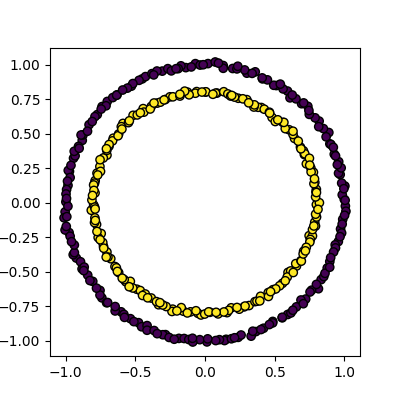
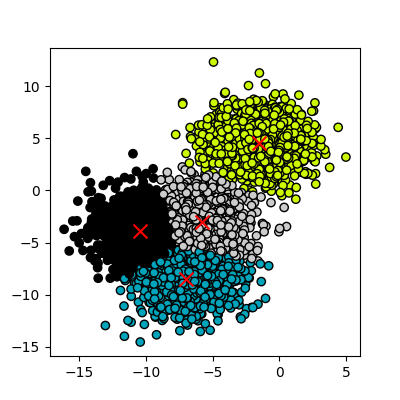
Corrected incorrect figures, changed plots in the silhouette score exercise

diff --git a/episodes/05-clustering.md b/episodes/05-clustering.md
@@ -31,7 +31,9 @@ Sometimes we do not have the luxury of using labelled data. This could be for a 
 - It is too time-consuming to (manually) label more data
 - We have data, but no idea what correlations might exist that we could model!
 
-In this case we need to use unsupervised learning. As the name suggests, this time we do not "supervise" the ML algorithm by providing it labels, but instead we let it try to find its own patterns in the data and report back on any correlations that it might find. You can think of unsupervised learning as a way to discover labels from the data itself.
+In this case we need to use unsupervised learning.
+As the name suggests, this time we do not "supervise" the ML algorithm by providing it labels, but instead we let it try to find its own patterns in the data and report back on any correlations that it might find.
+You can think of unsupervised learning as a way to discover labels from the data itself.
 
 ## Clustering
 
@@ -48,8 +50,7 @@ Clustering analysis does not usually require any training and is therefore known
 
 The k-means clustering algorithm is a simple clustering algorithm that tries to identify the centre of each cluster.
 It does this by searching for a point which minimises the distance between the centre and all the points in the cluster.
-The algorithm needs to be told how many k clusters to look for, but a common technique is to try different numbers of clusters and combine
-it with other tests to decide on the best combination.
+The algorithm needs to be told how many k clusters to look for, but a common technique is to try different numbers of clusters and combine it with other tests to decide on the best combination.
 
 :::::::::::::::::::::::::::::::::::::::::  callout
 
@@ -68,13 +69,18 @@ To perform a k-means clustering with Scikit-Learn we first need to import the sk
 import sklearn.cluster as skl_cluster
 ```
 
-For this example, we're going to use Scikit-Learn's built-in 'random data blob generator' instead of using an external dataset. Therefore we'll need the `sklearn.datasets` module.
+For this example, we're going to use Scikit-Learn's built-in 'random data blob generator' instead of using an external dataset.
+Therefore, we will use the `sklearn.datasets` module.
 
 ```python
 import sklearn.datasets as skl_datasets
 ```
 
-Now lets create some random blobs using the `make_blobs` function. The `n_samples` argument sets how many points we want to use in all of our blobs while `cluster_std` sets the standard deviation of the points. The smaller this value the closer together they will be. `centers` sets how many clusters we'd like. `random_state` is the initial state of the random number generator. By specifying this value we'll get the same results every time we run the program. If we don't specify a random state then we'll get different points every time we run. This function returns two things: an array of data points and a list of which cluster each point belongs to.
+Now lets create some random blobs using the `make_blobs` function.
+The `n_samples` argument sets how many points we want to use in all of our blobs while `cluster_std` sets the standard deviation of the points.
+The smaller this value the closer together they will be. `centers` sets how many clusters we'd like. `random_state` is the initial state of the random number generator.
+By specifying this value we'll get the same results every time we run the program. If we don't specify a random state then we'll get different points every time we run.
+This function returns two things: an array of data points and a list of which cluster each point belongs to.
 
 ```python
 import matplotlib.pyplot as plt
@@ -93,13 +99,13 @@ def plots_labels(data, labels):
     # Extract the x and y coordinates from the data
     tx = data[:, 0]
     ty = data[:, 1]
-    
+
     # Create a figure with a specified size
     fig = plt.figure(1, figsize=(4, 4))
-    
+
     # Scatter plot the data points, coloring them by their labels
     plt.scatter(tx, ty, edgecolor='k', c=labels)
-    
+
     # Display the plot
     plt.show()
 
@@ -118,18 +124,18 @@ def plot_clusters(data, clusters, Kmean):
     # Extract the x and y coordinates from the data
     tx = data[:, 0]
     ty = data[:, 1]
-    
+
     # Create a figure with a specified size
     fig = plt.figure(1, figsize=(4, 4))
-    
+
     # Scatter plot the data points, coloring them by their cluster assignment
     # plt.scatter(tx, ty, s=5, linewidth=0, c=clusters)
     plt.scatter(tx, ty, c=clusters, cmap="nipy_spectral", edgecolor='k')
-    
+
     # Loop through cluster centers and mark them with a red 'x'
     for cluster_x, cluster_y in Kmean.cluster_centers_:
         plt.scatter(cluster_x, cluster_y, s=100, c='r', marker='x')
-    
+
     # Display the plot
     plt.show()
 ```
@@ -190,13 +196,16 @@ multi-dimensional spaces.
 
 #### Assessing cluster quality with the silhouette score
 
-Evaluating the quality of clusters is a crucial step in clustering analysis, as it helps determine how well the data points fit into their assigned clusters. A widely used metric for this purpose is the **silhouette score**, which measures how similar a data point is to its own cluster compared to other clusters. The silhouette score is defined for each data point and ranges from -1 to 1, where:
+Evaluating the quality of clusters is a crucial step in clustering analysis, as it helps determine how well the data points fit into their assigned clusters.
+A widely used metric for this purpose is the **silhouette score**, which measures how similar a data point is to its own cluster compared to other clusters.
+The silhouette score is defined for each data point and ranges from -1 to 1, where:
 
 - **1** indicates the data point is well matched to its cluster and poorly matched to other clusters.
 - **0** indicates the data point is on or very close to the decision boundary between clusters.
 - **\-1** indicates the data point may have been misclassified into the wrong cluster.
 
-The silhouette score can be averaged across all data points to provide an overall measure of clustering quality. Additionally, examining silhouette scores for individual samples can help identify outliers or problematic clusters.
+The silhouette score can be averaged across all data points to provide an overall measure of clustering quality.
+Additionally, examining silhouette scores for individual samples can help identify outliers or problematic clusters.
 
 Here is the Python code to calculate both the overall silhouette score and the individual sample scores:
 
@@ -216,8 +225,10 @@ sample_silhouettes
 
 ### Exercise: How many clusters should we look for?
 
-Using k-means requires us to specify the number of clusters to expect. A common strategy to get around this is to vary the number of clusters we are looking for, and use the silhouette score to select the most appropriate number of clusters.
-Use the code below to loop through searching for between 2 and 10 clusters, generating silhouette plots for each. Which (if any) of the results look more sensible? What criteria might you use to select the best one?
+Using k-means requires us to specify the number of clusters to expect.
+A common strategy to get around this is to vary the number of clusters we are looking for, and use the silhouette score to select the most appropriate number of clusters.
+
+The code below generates violin plots for each cluster, that show the distribution of the silhouette scores of points within it:
 
 ```python
 import matplotlib.pyplot as plt
@@ -226,13 +237,13 @@ import numpy as np
 def plot_silhouette(data, clusters):
     """
     Calculates and plots silhouette scores for clustering results.
-    
+
     Parameters:
     - data: array-like of shape (n_samples, n_features)
         Feature matrix of the dataset.
     - clusters: array-like of shape (n_samples,)
         Cluster labels for each sample in the dataset.
-        
+
     Returns:
     - overall_silhouette: float
         The overall silhouette score for the clustering result.
@@ -245,36 +256,49 @@ def plot_silhouette(data, clusters):
     sample_silhouettes = silhouette_samples(data, clusters)
 
     # Plot silhouette values for each cluster
-    y_lower = 10
+    minimum_score = sample_silhouettes.min()
     n_clusters = len(np.unique(clusters))
 
-    for i in range(n_clusters):  # Iterate over each cluster
-        cluster_silhouettes = sample_silhouettes[clusters == i]
-        cluster_silhouettes.sort()
-        cluster_size = len(cluster_silhouettes)
-        y_upper = y_lower + cluster_size
+    fig, axes = plt.subplots(nrows=1, ncols=2)
 
-        plt.fill_betweenx(
-            np.arange(y_lower, y_upper),
-            0,
-            cluster_silhouettes,
-            alpha=0.7
+    for cluster_id in range(n_clusters):  # Iterate over each cluster
+        # Plot the silhouettes associated with each cluster
+        axes[0].violinplot(
+            [sample_silhouettes[clusters == cluster_id]],
+            positions=[cluster_id],
+            showextrema=False, showmedians=True,
         )
-        plt.text(-0.05, y_lower + 0.5 * cluster_size, str(i))
-        y_lower = y_upper + 10
+        axes[1].scatter(
+            data[:, 0][clusters == cluster_id],
+            data[:, 1][clusters == cluster_id]
+        )
 
-    plt.xlabel("Silhouette Coefficient")
-    plt.ylabel("Cluster")
-    plt.title("Silhouette Analysis")
-    # Set x-axis limits
-    plt.xlim([-.2, 1])
+    axes[0].hlines(
+        overall_silhouette, -0.5, n_clusters-0.5,
+        color="black", label=f"Overall: {overall_silhouette:.2f}"
+    )
+    axes[0].set_xticks([])  # Remove the ticks
+    axes[0].set_xlabel("Silhouette Coefficient")
+    axes[0].set_ylabel("Cluster")
+    axes[0].set_ylim(-0.2, 1)  # Set the y range to be consistent across all plots
+    axes[0].set_title("Silhouette Analysis")
+    axes[1].set_title("Predicted Clusters")
     plt.show()
 
     return overall_silhouette
-
 ```
 
+Use the code below to re-generate the clusters with a low standard deviation, then loop through searching for between 2 and 10 clusters, generating silhouette plots for each.
+Which (if any) of the results look more sensible?
+What criteria might you use to select the best one?
+
 ```python
+N_true_clusters = 4
+data, cluster_id = skl_datasets.make_blobs(
+    n_samples=400, cluster_std=0.75,
+    centers=N_true_clusters, random_state=1
+)
+
 for cluster_count in range(2,11):
     Kmean = skl_cluster.KMeans(n_clusters=cluster_count)
     Kmean.fit(data)
@@ -286,7 +310,14 @@ for cluster_count in range(2,11):
 
 ### Solution
 
-The silouette score, unfortunately, incorrectly identifies N=2 as the most approprirate clustering configuration in this case (silhouette = 0.73). However, the silhouette score for N=4 (true cluster number) is very close (silhouette = 0.72). The silhouette can act as a useful guide in selecting cluster number, but it doesn't always produce perfect results. Clustering with different feature sets or exploring different clustering algorithms may yield better results.
+The silouette score, unfortunately, incorrectly identifies N=2 as the most approprirate clustering configuration in this case (silhouette = 0.73).
+Looking at the figures, we can see how that is not an *unreasonable* conclusion.
+However, the silhouette score for N=4 (true cluster number) is very close (silhouette = 0.72).
+The silhouette can act as a useful guide in selecting cluster number, but it doesn't always produce perfect results.
+Clustering with different feature sets or exploring different clustering algorithms may yield better results.
+
+[](fig/ep05 clustering_silhouettes_n2.png){alt="Silhouette scores for 2 clusters"}
+[](fig/ep05 clustering_silhouettes_n4.png){alt="Silhouette scores for 4 clusters"}
 
 :::::::::::::::::::::::::
 
@@ -311,7 +342,7 @@ The silouette score, unfortunately, incorrectly identifies N=2 as the most appro
 
 ### Exercise: K-Means with overlapping clusters
 
-Adjust the program above to increase the standard deviation of the blobs (the cluster\_std parameter to make\_blobs) and increase the number of samples (n\_samples) to 4000.
+Adjust the program above to increase the standard deviation of the blobs (the `cluster_std` parameter to `make_blobs`) and increase the number of samples (`n_samples`) to 4000.
 You should start to see the clusters overlapping.
 Do the clusters that are identified make sense?
 Is there any strange behaviour?
@@ -320,11 +351,9 @@ Is there any strange behaviour?
 
 ### Solution
 
-Increasing n\_samples to 4000 and cluster\_std to 3.0 looks like this:
+Increasing `n_samples` to 4000 and `cluster_std` to 3.0 looks like this:
 ![](fig/kmeans_overlapping_clusters.png){alt='Kmeans attempting to classify overlapping clusters'}
 The straight line boundaries between clusters look a bit strange.
-
-
 
 :::::::::::::::::::::::::
 
@@ -333,7 +362,8 @@ The straight line boundaries between clusters look a bit strange.
 ### Spectral clustering
 
 Spectral clustering is a technique that attempts to overcome the linear boundary problem of k-means clustering.
-It works by treating clustering as a graph partitioning problem and looks for nodes in a graph with a small distance between them. See [this](https://www.cvl.isy.liu.se/education/graduate/spectral-clustering/SC_course_part1.pdf) introduction to spectral clustering if you are interested in more details about how spectral clustering works.
+It works by treating clustering as a graph partitioning problem and looks for nodes in a graph with a small distance between them.
+See [this](https://www.cvl.isy.liu.se/education/graduate/spectral-clustering/SC_course_part1.pdf) introduction to spectral clustering if you are interested in more details about how spectral clustering works.
 
 Here is an example of spectral clustering on two concentric circles:
 
@@ -349,7 +379,7 @@ additional dimension. This does have the downside of being more computationally 
 
 #### Spectral clustering with Scikit-Learn
 
-Lets try out using Scikit-Learn's spectral clustering. To make the concentric circles in the above example we need to use the `make_circles` function in the sklearn.datasets module. This works in a very similar way to the make\_blobs function we used earlier on.
+Lets try out using Scikit-Learn's spectral clustering. To make the concentric circles in the above example we need to use the `make_circles` function in the `sklearn.datasets` module. This works in a very similar way to the`make_blobs` function we used earlier on.
 
 ```python
 import sklearn.datasets as skl_data
@@ -364,20 +394,23 @@ The code for calculating the SpectralClustering is very similar to the kmeans cl
 model = skl_cluster.SpectralClustering(n_clusters=2, affinity='nearest_neighbors', assign_labels='kmeans')
 ```
 
-The SpectralClustering class combines the fit and predict functions into a single function called fit\_predict.
+The `SpectralClustering` class combines the fit and predict functions into a single function called `fit_predict`.
 
 ```python
 labels = model.fit_predict(circles)
 plots_labels(circles, labels)
 ```
 
-Here is the whole program combined with the kmeans clustering for comparison. Note that this produces two figures. To view both of them use the "Inline" graphics terminal inside the Python console instead of the "Automatic" method which will open a window and only show you one of the graphs.
+Here is the whole program, combined with the kmeans clustering for comparison.
+Note that this produces two figures.
 
 ```python
 import sklearn.cluster as skl_cluster
 import sklearn.datasets as skl_data
 
-circles, circles_clusters = skl_data.make_circles(n_samples=400, noise=.01, random_state=0)
+circles, circles_clusters = skl_data.make_circles(
+    n_samples=400, noise=.01, random_state=0
+)
 
 # cluster with kmeans
 Kmean = skl_cluster.KMeans(n_clusters=2)
@@ -388,7 +421,9 @@ clusters = Kmean.predict(circles)
 plot_clusters(circles, clusters, Kmean)
 
 # cluster with spectral clustering
-model = skl_cluster.SpectralClustering(n_clusters=2, affinity='nearest_neighbors', assign_labels='kmeans')
+model = skl_cluster.SpectralClustering(
+    n_clusters=2, affinity='nearest_neighbors', assign_labels='kmeans'
+)
 labels = model.fit_predict(circles)
 plots_labels(circles, labels)
 ```
@@ -400,9 +435,11 @@ plots_labels(circles, labels)
 
 ### Comparing k-means and spectral clustering performance
 
-Modify the program we wrote in the previous exercise to use spectral clustering instead of k-means and save it as a new file.
-Time how long both programs take to run. Add the line `import time` at the top of both files as the first line, and get the start time with `start_time = time.time()`.
-End the program by getting the time again and subtracting the start time from it to get the total run time. Add `end_time = time.time()` and `print("Elapsed time:",end_time-start_time,"seconds")` to the end of both files.
+Modify the program we wrote in the previous exercise to use spectral clustering instead of k-means, and save it as a new file.
+Time how long both programs take to run.
+Add the line `import time` at the top of both files as the first line, and get the start time with `start_time = time.time()`.
+End the program by getting the time again and subtracting the start time from it to get the total run time.
+Add `end_time = time.time()` and `print("Elapsed time:",end_time-start_time,"seconds")` to the end of both files.
 Compare how long both programs take to run generating 4,000 samples and testing them for between 2 and 10 clusters.
 How much did your run times differ?
 How much do they differ if you increase the number of samples to 8,000?
@@ -417,7 +454,7 @@ KMeans version: runtime around 4 seconds (your computer might be faster/slower)
 ```python
 import matplotlib.pyplot as plt
 import sklearn.cluster as skl_cluster
-from sklearn.datasets import make_blobs 
+from sklearn.datasets import make_blobs
 import time
 
 start_time = time.time()
@@ -443,7 +480,7 @@ Spectral version: runtime around 9 seconds (your computer might be faster/slower
 ```python
 import matplotlib.pyplot as plt
 import sklearn.cluster as skl_cluster
-from sklearn.datasets import make_blobs 
+from sklearn.datasets import make_blobs
 import time
 
 start_time = time.time()
@@ -455,7 +492,7 @@ for cluster_count in range(2,11):
                                        affinity='nearest_neighbors',
                                        assign_labels='kmeans')
     labels = model.fit_predict(data)
-    
+
     plt.scatter(data[:, 0], data[:, 1], s=15, linewidth=0, c=labels)
     plt.title(str(cluster_count)+" Clusters")
 plt.show()
@@ -468,15 +505,11 @@ The runtime numbers will differ depending on the speed of your computer, but the
 For 4000 points kmeans took 4 seconds, while spectral took 9 seconds. A 2.25 fold difference.
 For 8000 points kmeans took 5.6 seconds, while spectral took 24 seconds. A 4.28 fold difference. Kmeans is 1.4 times slower for double the data, while spectral is 2.6 times slower.
 The realative difference is diverging. If we used 100 times more data we might expect a 100 fold divergence in execution times.
-Kmeans might take a few minutes while spectral will take hours.
-
-
+Kmeans might take a few minutes, while spectral will take hours.
 
 :::::::::::::::::::::::::
 
 ::::::::::::::::::::::::::::::::::::::::::::::::::
-
-
 
 :::::::::::::::::::::::::::::::::::::::: keypoints
 
@@ -489,5 +522,3 @@ Kmeans might take a few minutes while spectral will take hours.
 - Scikit-Learn has functions to create example data.
 
 ::::::::::::::::::::::::::::::::::::::::::::::::::
-
-